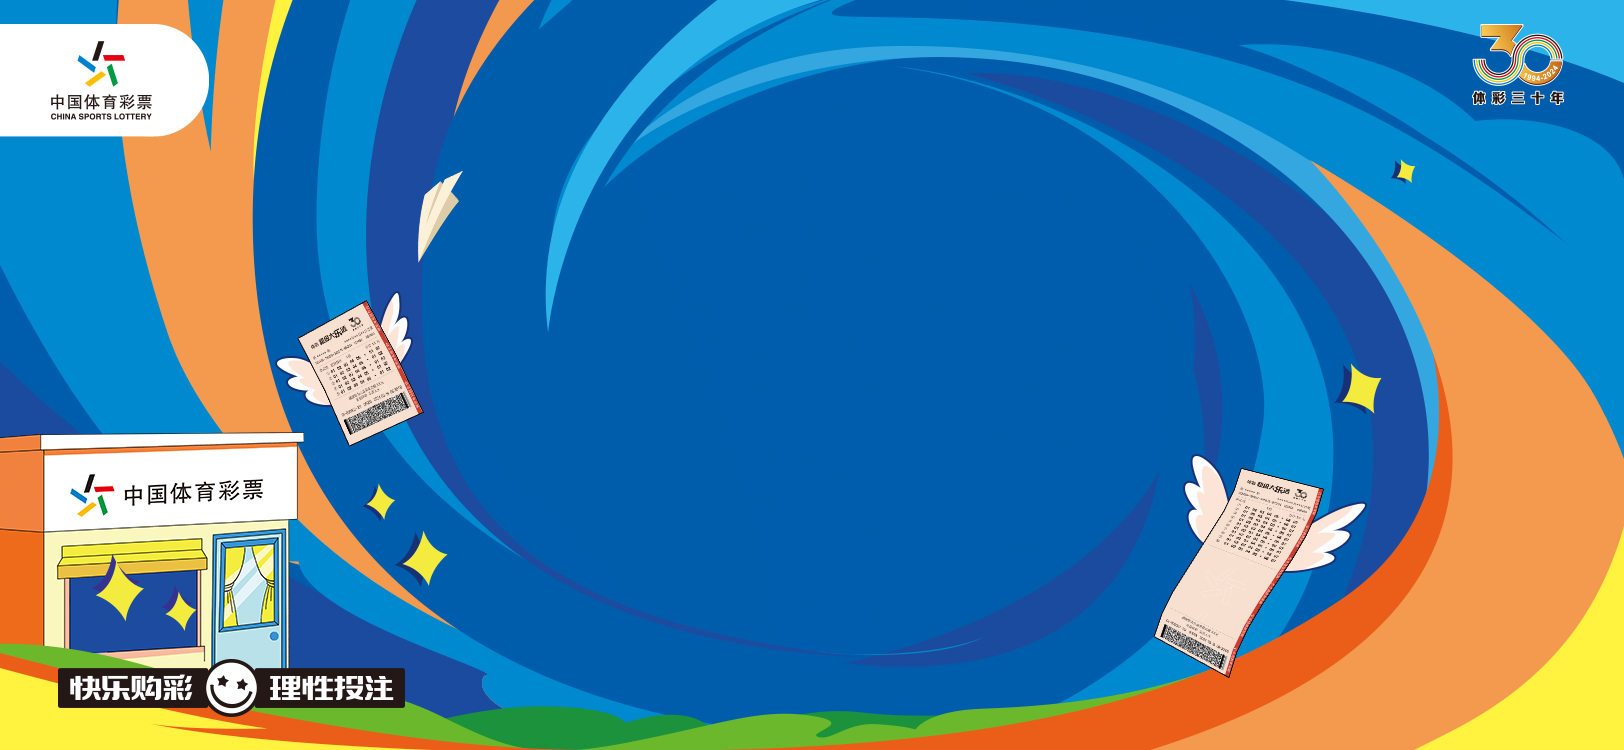
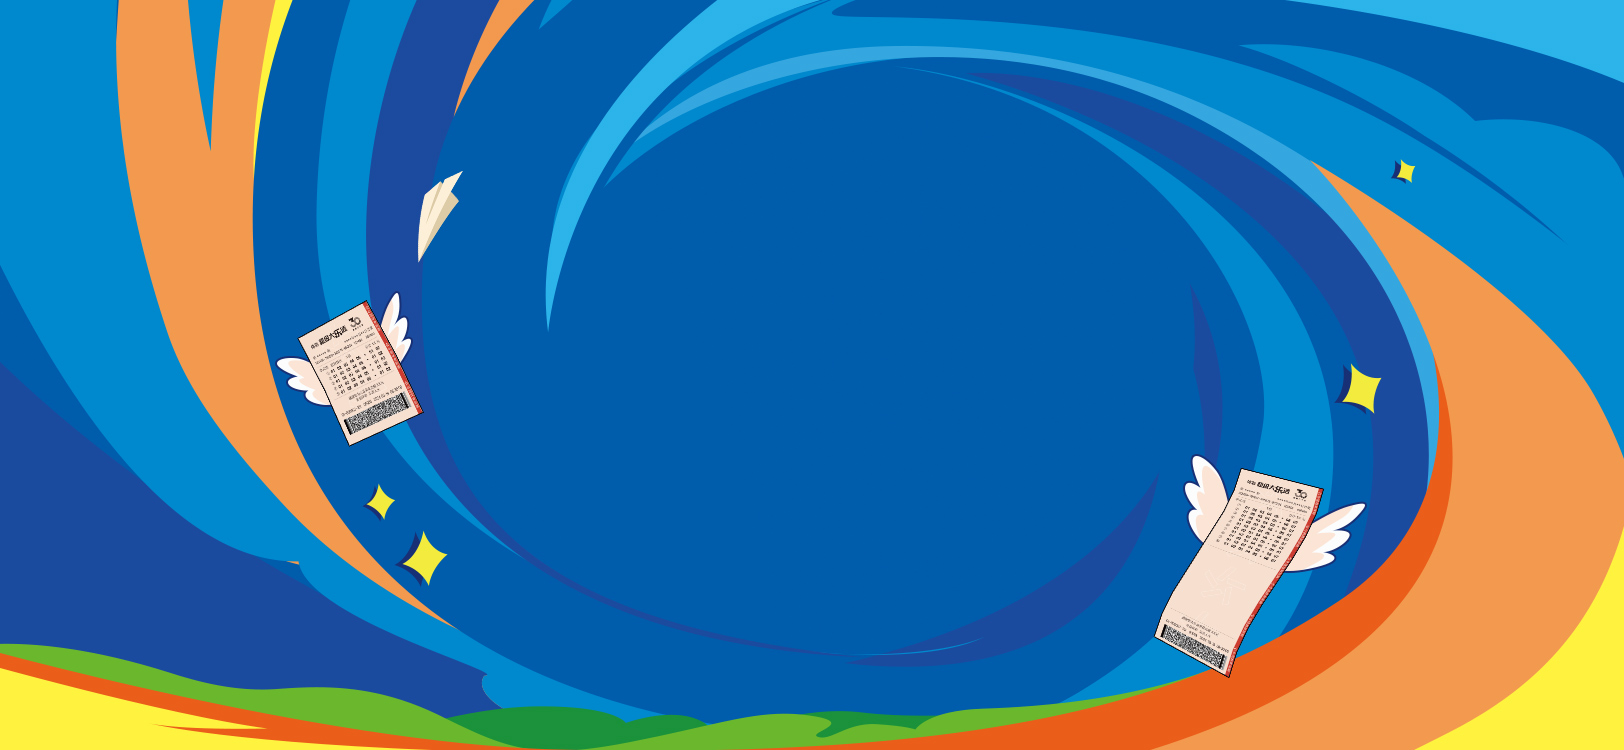
feat: update

Changed region(s): [[0.0, 0.552, 0.2463, 0.9507], [0.0, 0.0307, 0.1539, 0.184], [0.8929, 0.0307, 0.9852, 0.1533]]

diff --git a/src/components/CommonTurn/index.scss b/src/components/CommonTurn/index.scss
@@ -3,8 +3,41 @@
   width: 100%;
   height: 100%;
   background-image: url("@/assets/images/raffle-bg.png");
-  background-size: 100% 100%;
+  // background-size: 100% 100%;
+  background-size: cover;
+  background-position: center;
+  background-repeat: no-repeat;
   z-index: 4;
+
+  .turn-logo {
+    position: absolute;
+    top: 35px;
+    left: 0;
+    width: 210px;
+    height: 113px;
+    background-image: url("@/assets/images/raffle-logo.png");
+    background-size: 100% 100%;
+  }
+
+  .turn-30 {
+    position: absolute;
+    top: 35px;
+    right: 47px;
+    width: 92px;
+    height: 81px;
+    background-image: url("@/assets/images/raffle-30.png");
+    background-size: 100% 100%;
+  }
+
+  .turn-house {
+    position: absolute;
+    bottom: 0;
+    left: 0;
+    width: 405px;
+    height: 276px;
+    background-image: url("@/assets/images/raffle-house.png");
+    background-size: 100% 100%;
+  }
 
   .turn-btn {
     position: absolute;
@@ -19,7 +52,7 @@
     // height: 25%;
     background-image: url("@/assets/images/raffle-btn.png");
     background-size: 100% 100%;
-    z-index: 3;
+    z-index: 4;
   }
 
   .turn-circle {
@@ -33,7 +66,7 @@
     // height: 97%;
     background-image: url("@/assets/images/raffle-circle.png");
     background-size: 100% 100%;
-    z-index: 2;
+    z-index: 3;
   }
 
   .turn-loop {
@@ -48,7 +81,7 @@
     // height: 64%;
     background-image: url("@/assets/images/raffle-loop.png");
     background-size: 100% 100%;
-    z-index: 1;
+    z-index: 2;
     transition: transform 3000ms ease;
   }
 }
@@ -56,9 +89,9 @@
 .float-icon {
   position: absolute;
   top: 120px;
-  right: 30px;
-  left: 20px;
-  z-index: 0;
+  right: 20px;
+  // left: 20px;
+  z-index: 1;
   height: calc(100% - 120px);
   display: flex;
   flex-direction: column;

diff --git a/src/components/CommonQuestion/index.vue b/src/components/CommonQuestion/index.vue
@@ -24,7 +24,7 @@
           <div class="an-error" v-else>回答错误</div>
           <div class="an-solution">{{ currentIssue.solution }}</div>
         </div>
-        <div class="an-detail">{{ currentIssue.detail }}</div>
+        <div class="an-detail" id="anDetail">{{ currentIssue.detail }}</div>
         <div class="popup-btn" v-if="isCorrect" @click="handleGoOn"><span>点击前行</span></div>
         <div class="popup-btn" v-else @click="handleResume"><span>重新开始</span></div>
       </template>
@@ -79,6 +79,8 @@ const handleResume = () => {
   emit("handleRestart");
   handleGoOn();
 };
+
+onMounted(() => {});
 </script>
 
 <style lang="scss" scoped>

diff --git a/src/components/CommonTurn/index.vue b/src/components/CommonTurn/index.vue
@@ -1,5 +1,8 @@
 <template>
   <div class="turn-bg">
+    <div class="turn-logo"></div>
+    <div class="turn-30"></div>
+    <div class="turn-house"></div>
     <div class="turn-btn" @click="handleRaffle"></div>
     <div class="turn-circle"></div>
     <div
@@ -8,7 +11,7 @@
         transform: `rotateZ(${angle}deg)`
       }"
     ></div>
-
+    <!-- 三个按钮 -->
     <div class="float-icon">
       <div class="icon-item icon3" @click="() => handleTriggerPrize(true)"></div>
       <div class="icon-second">

diff --git a/src/components/CommonLogin/index.vue b/src/components/CommonLogin/index.vue
@@ -2,7 +2,7 @@
   <div class="login-wrapper">
     <div class="logo"></div>
     <div class="login-form">
-      <div class="login-title">欢迎注册</div>
+      <!-- <div class="login-title">欢迎注册</div> -->
       <div class="login-input">
         <div class="input-item">
           <label for="tel">手机号</label>

diff --git a/src/pages/home/index.vue b/src/pages/home/index.vue
@@ -127,7 +127,7 @@ const loadCD = () => {
   loadTimer && clearTimeout(loadTimer);
   if (loadCount.value <= 100) {
     loadCount.value++;
-    loadTimer = setTimeout(() => loadCD(), 10);
+    loadTimer = setTimeout(() => loadCD(), 40);
   } else {
     bgCD();
     trainCD();

diff --git a/src/utils/fastClick.js b/src/utils/fastClick.js
@@ -36,7 +36,9 @@ document.documentElement.addEventListener(
 document.addEventListener(
   "touchmove",
   (e) => {
-    e.preventDefault();
+    if (!["anDetail"].includes(e.target.id)) {
+      e.preventDefault();
+    }
   },
   { passive: false }
 );

diff --git a/src/components/CommonLogin/DragVerify.vue b/src/components/CommonLogin/DragVerify.vue
@@ -139,7 +139,7 @@ onMounted(() => {
 /* 滑动控件容器,灰色背景 */
 #dragContainer {
   position: absolute;
-  top: 600px;
+  top: 540px;
   left: 50%;
   transform: translate(-50%, -50%);
   display: inline-block;

diff --git a/src/components/CommonLogin/portrait.scss b/src/components/CommonLogin/portrait.scss
@@ -6,7 +6,7 @@
   }
 
   .login-form {
-    top: 300px;
+    top: 340px;
     left: 50%;
     transform: translateX(-50%);
 
